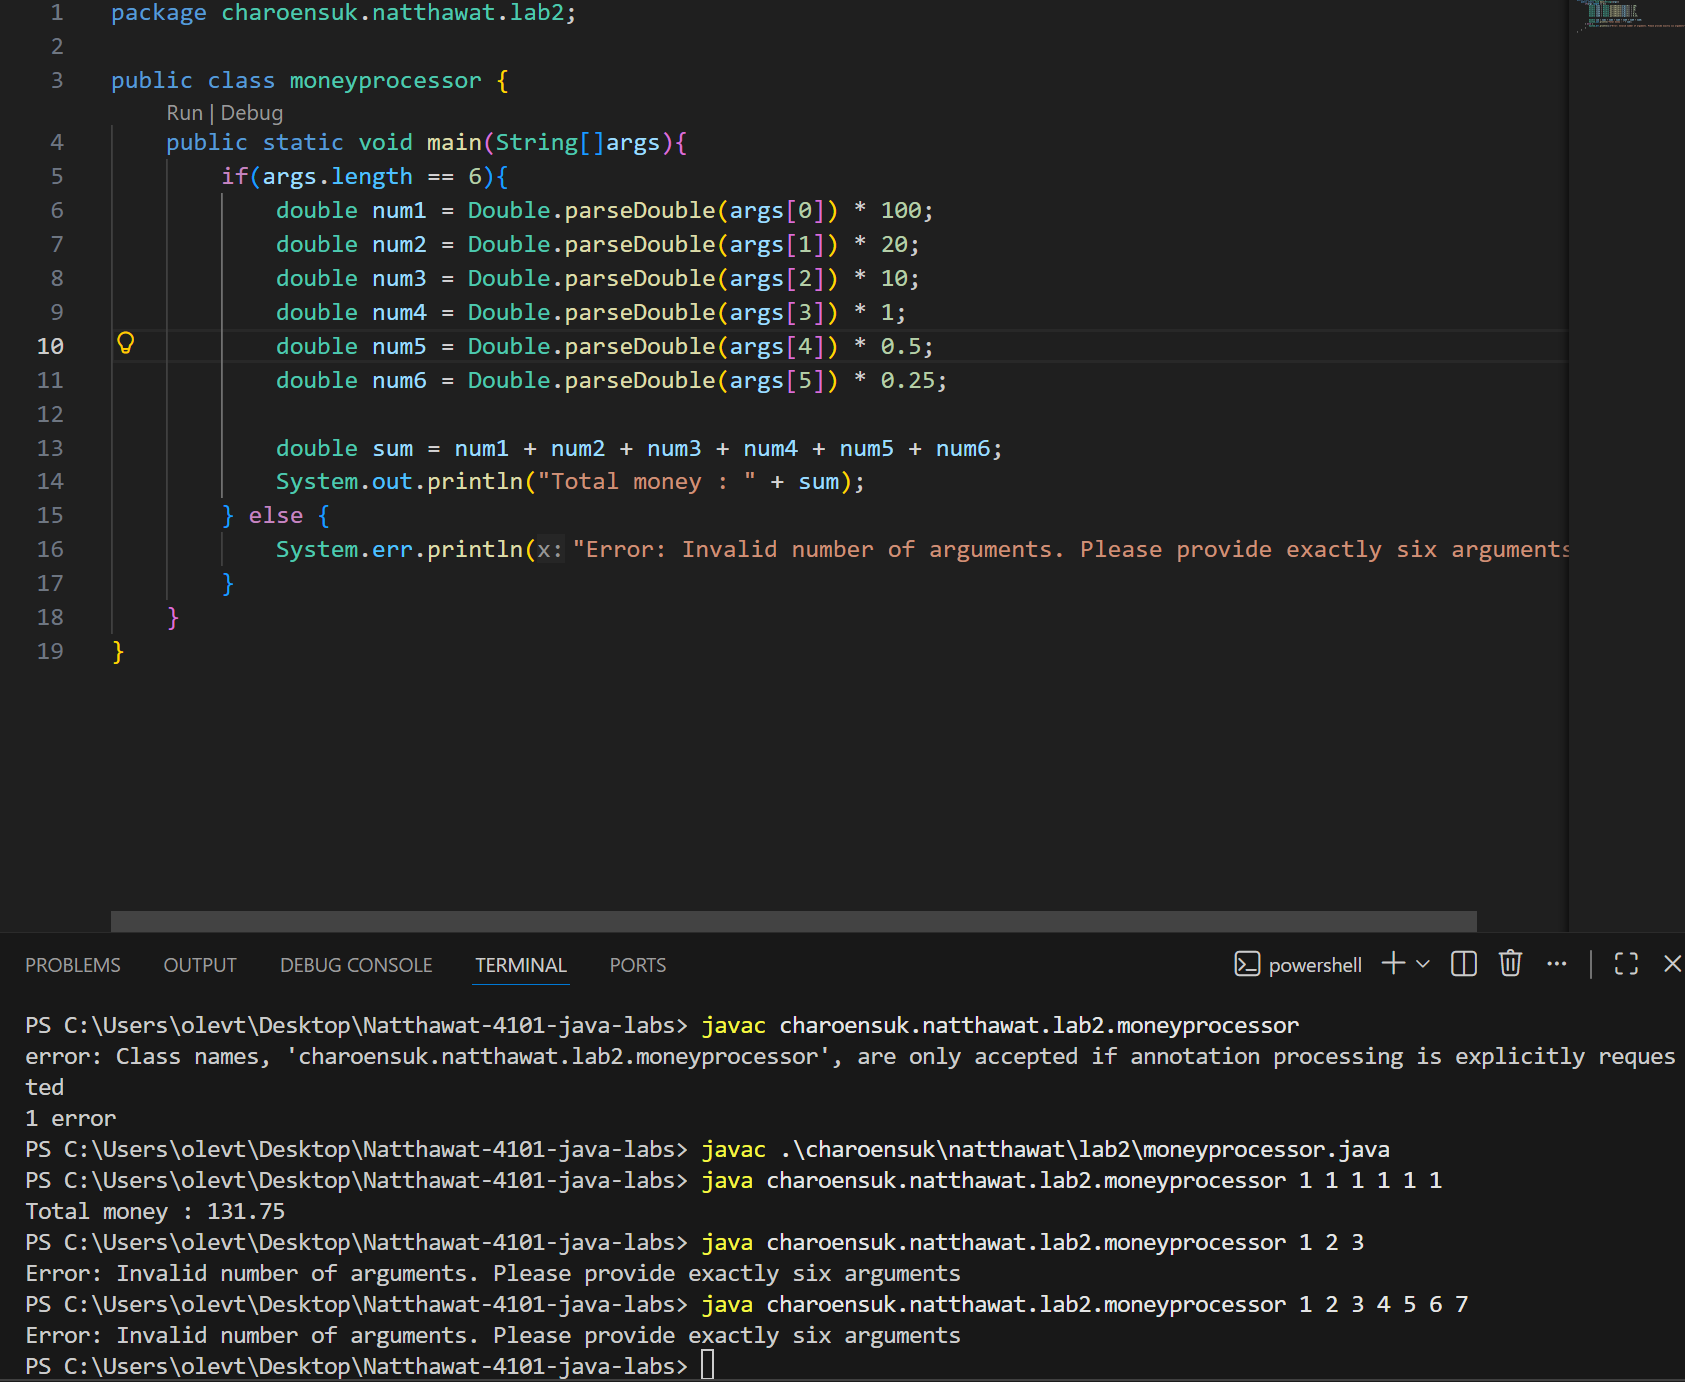
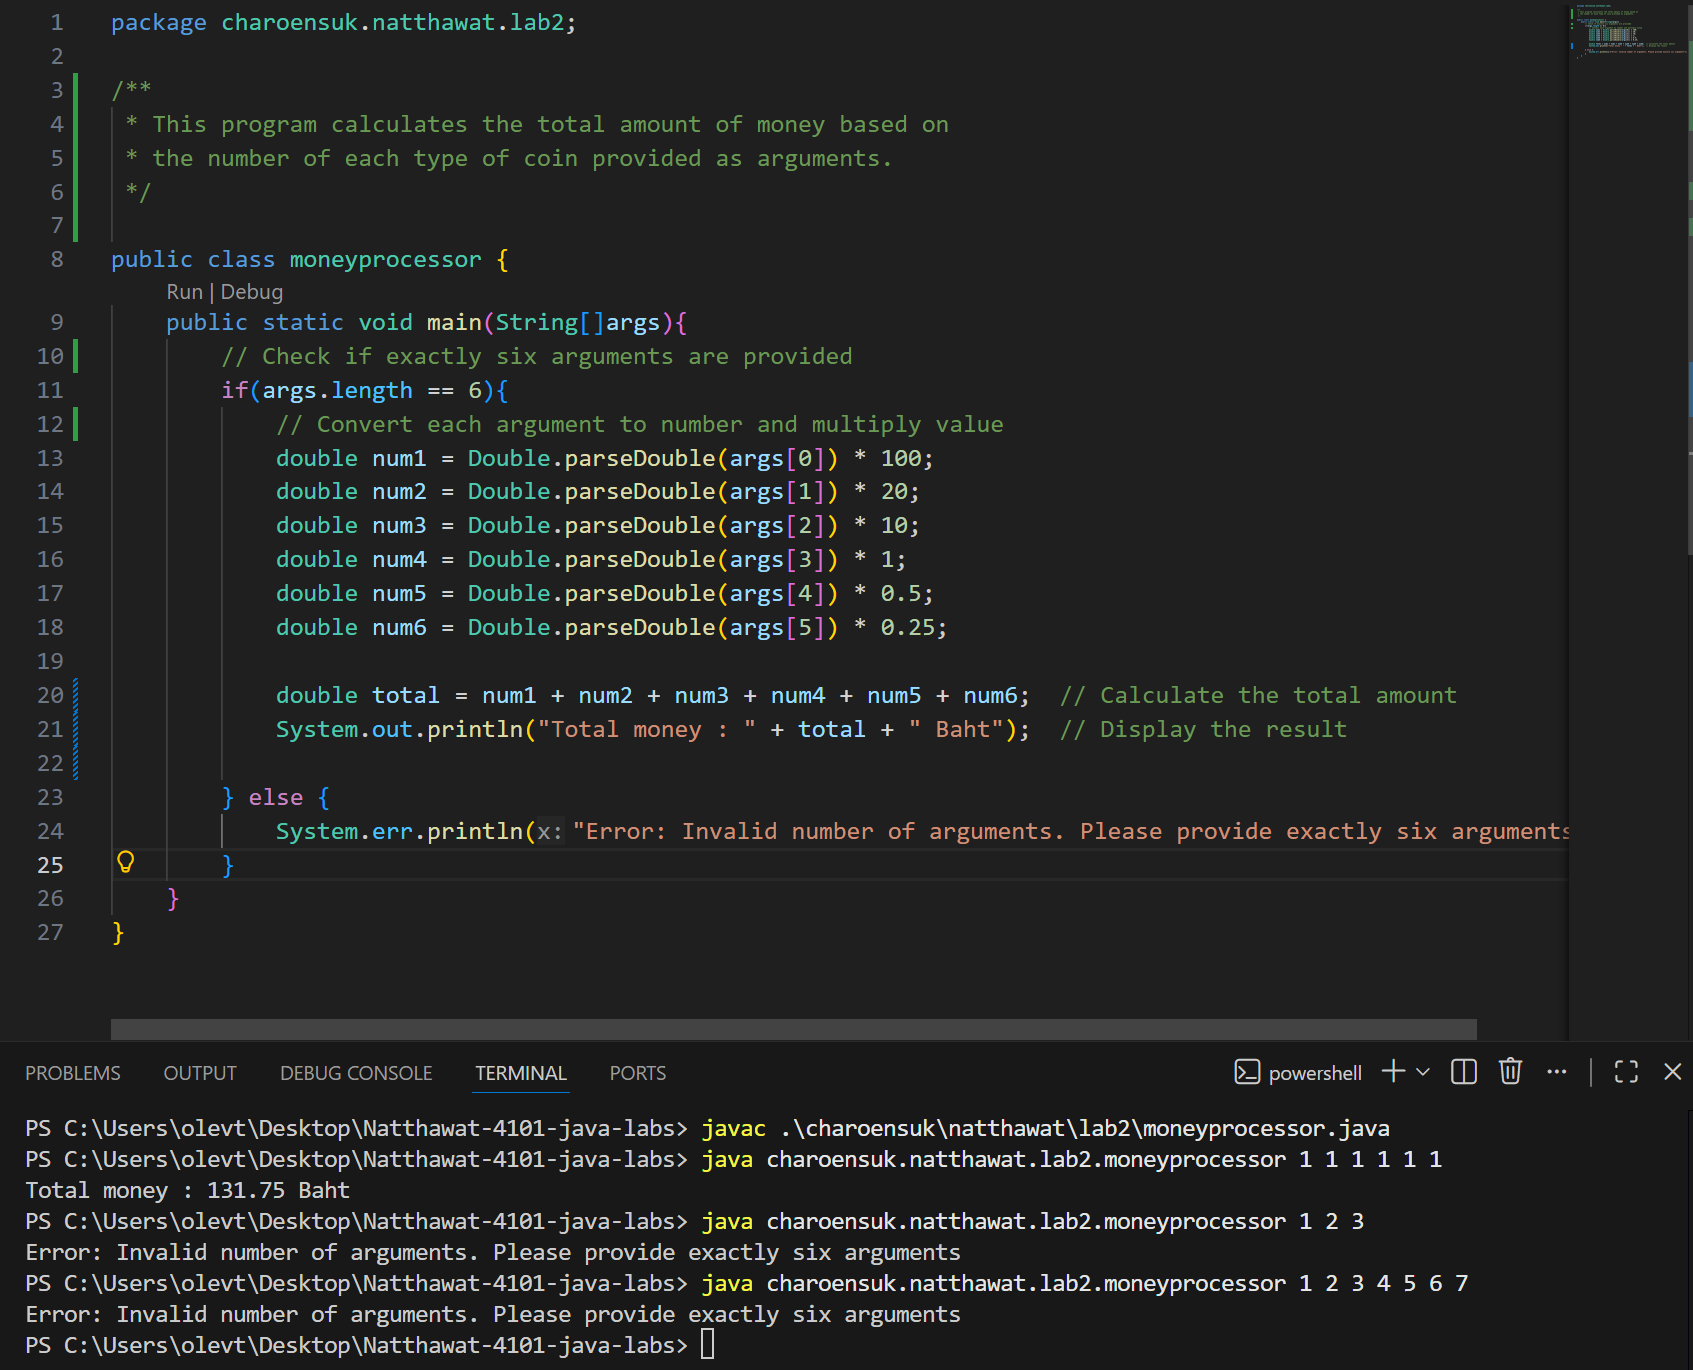
new

diff --git a/charoensuk/natthawat/lab2/moneyprocessor.java b/charoensuk/natthawat/lab2/moneyprocessor.java
@@ -1,8 +1,15 @@
 package charoensuk.natthawat.lab2;
 
+/**
+ * This program calculates the total amount of money based on
+ * the number of each type of coin provided as arguments.
+ */
+
 public class moneyprocessor {
     public static void main(String[]args){
+        // Check if exactly six arguments are provided
         if(args.length == 6){
+            // Convert each argument to number and multiply value
             double num1 = Double.parseDouble(args[0]) * 100;
             double num2 = Double.parseDouble(args[1]) * 20;
             double num3 = Double.parseDouble(args[2]) * 10;
@@ -10,8 +17,9 @@ public class moneyprocessor {
             double num5 = Double.parseDouble(args[4]) * 0.5;
             double num6 = Double.parseDouble(args[5]) * 0.25;
 
-            double sum = num1 + num2 + num3 + num4 + num5 + num6;
-            System.out.println("Total money : " + sum);
+            double total = num1 + num2 + num3 + num4 + num5 + num6;  // Calculate the total amount
+            System.out.println("Total money : " + total + " Baht");  // Display the result
+
         } else {
             System.err.println("Error: Invalid number of arguments. Please provide exactly six arguments");
         }

diff --git a/charoensuk/natthawat/lab2/schoolnamechecker.java b/charoensuk/natthawat/lab2/schoolnamechecker.java
@@ -1,0 +1,31 @@
+package charoensuk.natthawat.lab2;
+
+/**
+ * This program checks whether the given school name
+ * contains the word "university" or "college".
+ * It prints the corresponding result.
+ */
+
+public class schoolnamechecker {
+    public static void main(String[]args){
+        // Check if exactly one argument is provided
+        if(args.length == 1){
+            String schoolName = args[0];  // Read the input school name
+            String lowerCaseName = schoolName.toLowerCase();  // Convert to lowercase for case-insensitive checking
+            
+            // Check for keywords
+            if(lowerCaseName.contains("university")){
+                System.out.println(schoolName + " is a university");
+
+            } else if(lowerCaseName.contains("college")){
+                System.out.println(schoolName + " is a college");
+
+            } else {
+                System.out.println(schoolName + " is neither a university nor a college");
+                
+            }
+        }else{
+            System.err.println("Error: Invalid number of arguments. Please provide exactly one arguments");
+        }
+    }
+}
